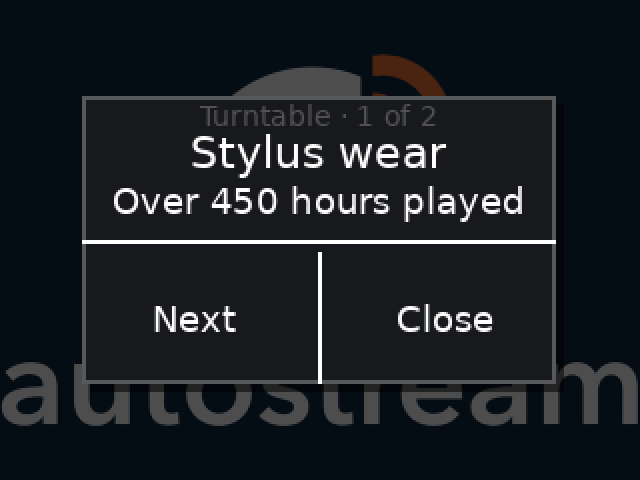
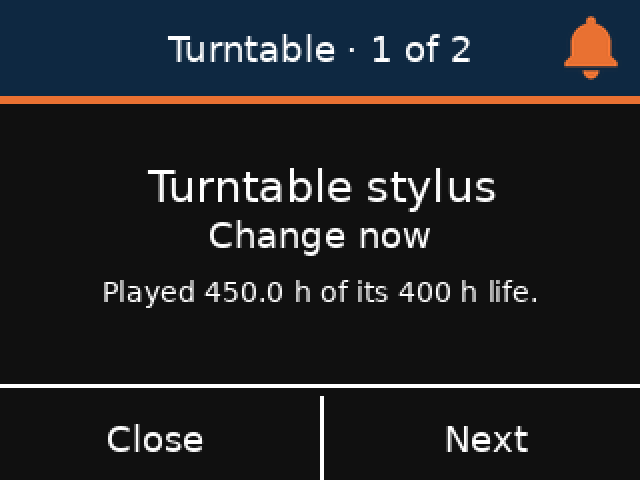
docs: the dial showcase pictures show the current warning cards
The SPI screens take the microSD card's text from the shared wording and
the dial's own source name, so they follow the code; the cards are drawn
with their severity, the No WiFi buttons run Close then Restart, and the
version numbers move on a release.

diff --git a/tools/showcase/spi_shots.py b/tools/showcase/spi_shots.py
@@ -31,9 +31,11 @@ from dial_display_image import load_logo  # noqa: E402
 from dial_display_profiles import get_profile, layout_context_for  # noqa: E402
 from dial_layout_metrics import CONTENT_COMPACT, metrics_for  # noqa: E402
 from dial_touch_layout import list_layout_for  # noqa: E402
+from autostream_sysutils import SD_LEVEL_FAILING, sd_card_text  # noqa: E402
+from dial_warning_bell import DIAL_SOURCE  # noqa: E402
 from dial_warning_text import (  # noqa: E402
-    CLOSE_TEXT, NEXT_TEXT, NOWIFI_MESSAGE_TEXT, RESTART_TEXT, SDHEALTH_BODY_TEXT, SDHEALTH_TITLE_TEXT,
-    UPDATE_FAILED_TEXT, UPDATE_PHASE_TEXT, UPDATED_TEXT, UPDATING_TEXT)
+    CLOSE_TEXT, NEXT_TEXT, NOWIFI_MESSAGE_TEXT, RESTART_TEXT, UPDATE_FAILED_TEXT, UPDATE_PHASE_TEXT,
+    UPDATED_TEXT, UPDATING_TEXT)
 from music import BY_KEY  # noqa: E402
 
 LOGO = REPO_ROOT / "images" / "autostream-logo-centred-dark.png"
@@ -45,7 +47,7 @@ VARIANTS = {"rich": "ili9341_320x240", "compact": "st7789_240x240"}
 # What the Info page reads on a showcase dial.
 INFO_ROWS = (
     ("WiFi", "HomeNet"), ("Signal", "Strong"), ("IPv4", "192.168.1.42"),
-    ("Dial name", "Lounge dial"), ("Firmware", "0.7.0"), ("Disk free", "21.4 GB"), ("SD health", "96%"),
+    ("Dial name", "Lounge dial"), ("Firmware", "0.8.0"), ("Disk free", "21.4 GB"), ("SD health", "96%"),
 )
 
 
@@ -176,13 +178,15 @@ def warning(panel, view):
 
 def nowifi(panel):
     return warning(panel, views.WarningView(
-        title=NOWIFI_MESSAGE_TEXT, buttons=(RESTART_TEXT, CLOSE_TEXT), source="This dial"))
+        title=NOWIFI_MESSAGE_TEXT, buttons=(CLOSE_TEXT, RESTART_TEXT), source=DIAL_SOURCE,
+        severity="warning"))
 
 
 def sdhealth(panel):
+    title, message, detail = sd_card_text(SD_LEVEL_FAILING, 4)
     return warning(panel, views.WarningView(
-        title=SDHEALTH_TITLE_TEXT, message=SDHEALTH_BODY_TEXT.format(percent=4), buttons=(CLOSE_TEXT,),
-        source="This dial"))
+        title=title, message=message, detail=detail, buttons=(CLOSE_TEXT,), source=DIAL_SOURCE,
+        severity="critical"))
 
 
 def updating(panel):
@@ -192,21 +196,21 @@ def updating(panel):
 
 def updated(panel):
     return warning(panel, views.WarningView(
-        title=UPDATED_TEXT, message="Version 0.7.0", buttons=(CLOSE_TEXT,)))
+        title=UPDATED_TEXT, message="Version 0.8.0", buttons=(CLOSE_TEXT,)))
 
 
 def update_failed(panel):
     return warning(panel, views.WarningView(
-        title=UPDATE_FAILED_TEXT, message="Restored 0.6.0", buttons=(CLOSE_TEXT,)))
+        title=UPDATE_FAILED_TEXT, message="Restored 0.7.0", buttons=(CLOSE_TEXT,)))
 
 
 def appliance_warning(panel, paged=False):
     """An appliance's warning on the warnings card: Close alone, or Close | Next
     with the entry's place among the bell's entries."""
     return warning(panel, views.WarningView(
-        title="Stylus wear", message="Change now", detail="Played 450.0 h of its 400 h life.",
+        title="Turntable stylus", message="Change now", detail="Played 450.0 h of its 400 h life.",
         buttons=(CLOSE_TEXT, NEXT_TEXT) if paged else (CLOSE_TEXT,),
-        source="Turntable · 1 of 2" if paged else "Turntable"))
+        source="Turntable · 1 of 2" if paged else "Turntable", severity="warning"))
 
 
 def screens(panel):

diff --git a/tools/showcase/showcase_scenarios.py b/tools/showcase/showcase_scenarios.py
@@ -116,7 +116,7 @@ def _scenario(name, snapshot, *, muted=False, action="", **kwargs):
 def _stylus_scenario(track: Track):
     ident = IDS[track.appliance]
     warning = ApplianceWarning(
-        "stylus_in1", "warning", "Stylus wear", "Change now",
+        "stylus_in1", "warning", "Turntable stylus", "Change now",
         appliance_name=track.appliance, detail="Played 450.0 h of its 400 h life.",
     )
     key = appliance_warning_key(ident, warning.id)
